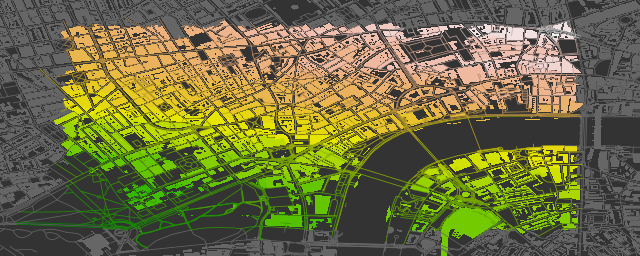
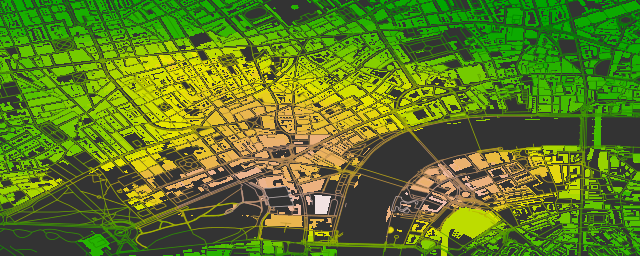
update README map7

diff --git a/README.md b/README.md
@@ -166,24 +166,22 @@ See package vignettes ('Downloading Data' and 'Making Maps') for a lot more deta
 
 ### Data surfaces
 
-Finally, `osmplotr` contains a function `add_osm_surface` to spatially interpolate a given set of spatial data points and colour OSM objects according to a specified colour gradient. This is illustrated here with a surface laid on regular points interior to `bbox`.
+Finally, `osmplotr` contains a function `add_osm_surface` to spatially interpolate a given set of spatial data points and colour OSM objects according to a specified colour gradient. This is illustrated here with the `volcano` data projected onto the `bbox`.
 
 ``` r
-x <- seq (-0.145, -0.105, by=0.005)
-y <- seq (51.502, 51.518, by=0.002)
-xarr <- array (x, dim=c(length (x), length (y)))
-yarr <- t (array (y, dim=c(length (y), length (x))))
-z <- sin (100 * (xarr + 0.125)) + cos (100 * (yarr - 51.51) - 1)
-surf <- cbind (as.numeric (xarr), as.numeric (yarr), as.numeric (z))
+x <- seq (bbox [1], bbox [3], length.out=dim (volcano)[1])
+y <- seq (bbox [2], bbox [4], length.out=dim (volcano)[2])
+xy <- cbind (rep (x, dim (volcano) [2]), rep (y, each=dim (volcano) [1]))
+z <- as.numeric (volcano)
 ```
 
 Passing the `bg` argument to `add_osm_surface` plots all objects beyond the convex hull of the `xy` points as that colour. (Such points may be included in the interpolation with `bg=NULL`.)
 
 ``` r
 plot_osm_basemap (xylims=get_xylims (bbox), bg="gray20", file='map7.png')
-add_osm_surface (dat_B, dat=surf, method="idw", bg="gray40")
+add_osm_surface (dat_B, dat=cbind (xy, z), method="idw", bg="gray40")
 cols <- adjust_colours (terrain.colors (30), -0.2) # Darken by ~20%
-add_osm_surface (dat_H, dat=surf, cols=cols, bg="gray40")
+add_osm_surface (dat_H, dat=cbind (xy, z), cols=cols, bg="gray40")
 graphics.off ()
 ```
 
